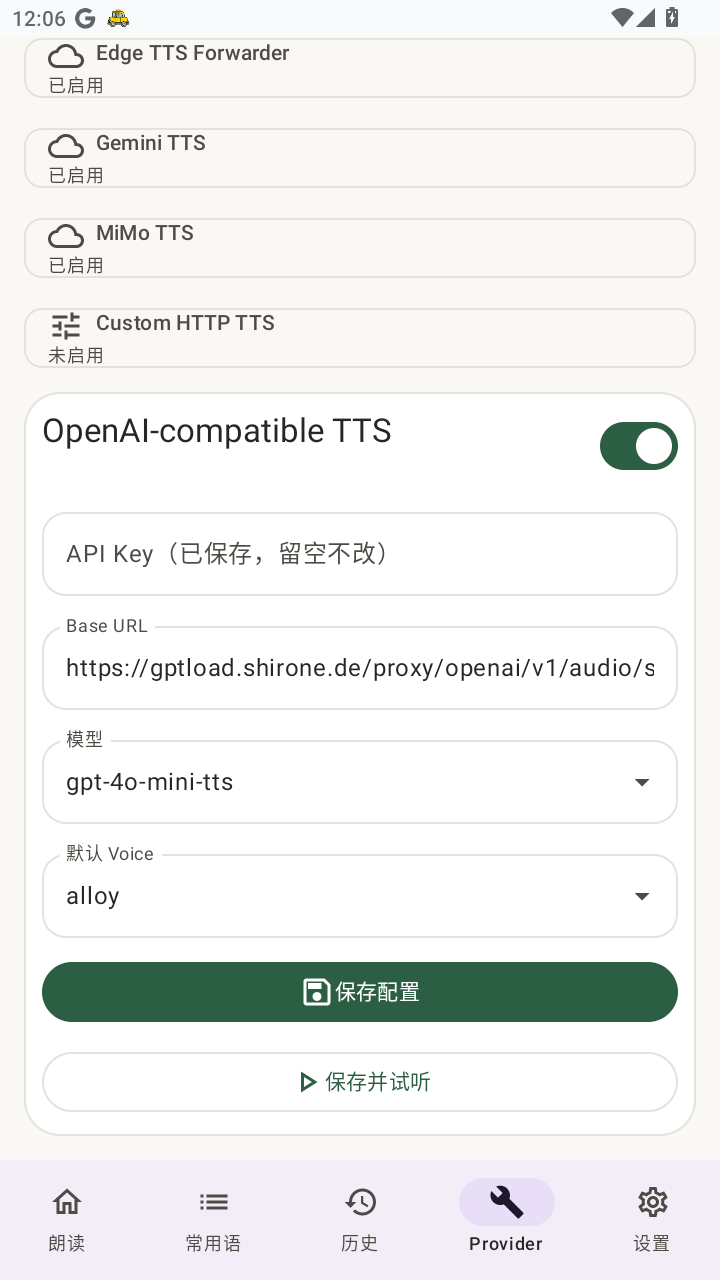
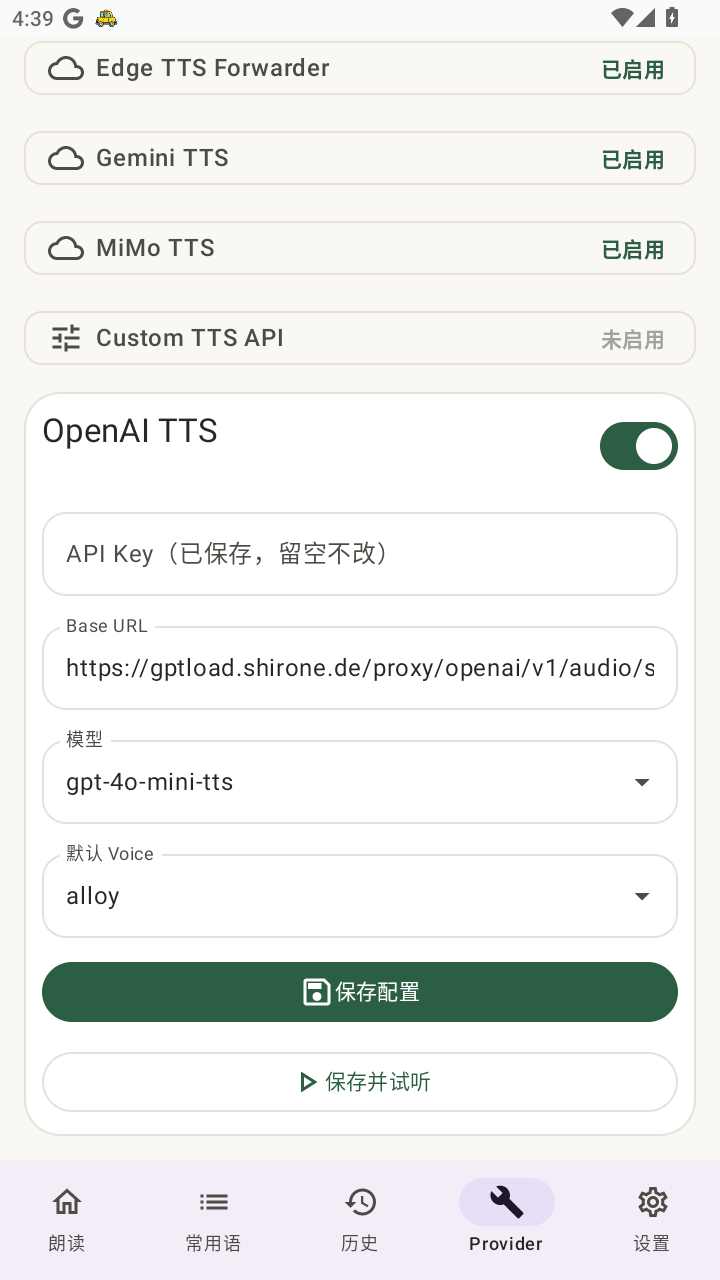
style: replace provider vertical list chips with an elegant dropdown selector

diff --git a/app/src/main/java/com/phrasevoice/ui/providers/ProviderSettingsScreen.kt b/app/src/main/java/com/phrasevoice/ui/providers/ProviderSettingsScreen.kt
@@ -106,13 +106,10 @@ fun ProviderSettingsScreen(
             )
         }
 
-        state.configs.forEach { config ->
-            ProviderSummaryCard(
-                config = config,
-                selected = config.providerId == state.selectedProviderId,
-                onClick = { onProviderSelected(config.providerId) },
-            )
-        }
+        ProviderSelectorDropdown(
+            state = state,
+            onProviderSelected = onProviderSelected,
+        )
 
         Card(
             colors = CardDefaults.cardColors(containerColor = MaterialTheme.colorScheme.surface),
@@ -475,49 +472,86 @@ private fun MimoVoiceDesignFields(
     }
 }
 
+@OptIn(ExperimentalMaterial3Api::class)
 @Composable
-private fun ProviderSummaryCard(
-    config: ProviderConfig,
-    selected: Boolean,
-    onClick: () -> Unit,
+private fun ProviderSelectorDropdown(
+    state: ProviderSettingsUiState,
+    onProviderSelected: (String) -> Unit,
 ) {
-    FilterChip(
-        selected = selected,
-        onClick = onClick,
-        label = {
-            Row(
-                modifier = Modifier.fillMaxWidth().padding(vertical = 6.dp),
-                horizontalArrangement = Arrangement.SpaceBetween,
-                verticalAlignment = Alignment.CenterVertically
-            ) {
-                Row(
-                    horizontalArrangement = Arrangement.spacedBy(8.dp),
-                    verticalAlignment = Alignment.CenterVertically
-                ) {
-                    ProviderIcon(config.providerId)
-                    Text(
-                        text = providerLabel(config.providerId),
-                        style = MaterialTheme.typography.bodyLarge.copy(fontWeight = FontWeight.Medium),
-                        maxLines = 1,
-                        overflow = TextOverflow.Ellipsis
-                    )
-                }
-                Text(
-                    text = if (config.enabled) "已启用" else "未启用",
-                    style = MaterialTheme.typography.bodyMedium.copy(
-                        fontWeight = FontWeight.Bold,
-                        color = if (config.enabled) {
-                            MaterialTheme.colorScheme.primary
-                        } else {
-                            MaterialTheme.colorScheme.onSurfaceVariant.copy(alpha = 0.5f)
+    var expanded by remember { mutableStateOf(false) }
+    val selectedConfig = state.configs.firstOrNull { it.providerId == state.selectedProviderId }
+    val selectedLabel = selectedConfig?.let { providerLabel(it.providerId) }.orEmpty()
+
+    ExposedDropdownMenuBox(
+        expanded = expanded,
+        onExpandedChange = { expanded = !expanded },
+        modifier = Modifier.fillMaxWidth()
+    ) {
+        OutlinedTextField(
+            modifier = Modifier
+                .menuAnchor()
+                .fillMaxWidth(),
+            readOnly = true,
+            value = selectedLabel,
+            onValueChange = {},
+            label = { Text("选择 Provider 声音引擎") },
+            trailingIcon = { ExposedDropdownMenuDefaults.TrailingIcon(expanded = expanded) },
+            leadingIcon = {
+                selectedConfig?.let { ProviderIcon(it.providerId) }
+            },
+            shape = RoundedCornerShape(16.dp),
+            colors = OutlinedTextFieldDefaults.colors(
+                focusedBorderColor = MaterialTheme.colorScheme.primary,
+                unfocusedBorderColor = MaterialTheme.colorScheme.outline,
+                focusedContainerColor = MaterialTheme.colorScheme.surface,
+                unfocusedContainerColor = MaterialTheme.colorScheme.surface,
+            )
+        )
+        ExposedDropdownMenu(
+            expanded = expanded,
+            onDismissRequest = { expanded = false },
+            modifier = Modifier.fillMaxWidth()
+        ) {
+            state.configs.forEach { config ->
+                DropdownMenuItem(
+                    text = {
+                        Row(
+                            modifier = Modifier.fillMaxWidth(),
+                            horizontalArrangement = Arrangement.SpaceBetween,
+                            verticalAlignment = Alignment.CenterVertically
+                        ) {
+                            Row(
+                                horizontalArrangement = Arrangement.spacedBy(8.dp),
+                                verticalAlignment = Alignment.CenterVertically
+                            ) {
+                                ProviderIcon(config.providerId)
+                                Text(
+                                    text = providerLabel(config.providerId),
+                                    style = MaterialTheme.typography.bodyLarge.copy(fontWeight = FontWeight.Medium),
+                                )
+                            }
+                            Text(
+                                text = if (config.enabled) "已启用" else "未启用",
+                                style = MaterialTheme.typography.bodyMedium.copy(
+                                    fontWeight = FontWeight.Bold,
+                                    color = if (config.enabled) {
+                                        MaterialTheme.colorScheme.primary
+                                    } else {
+                                        MaterialTheme.colorScheme.onSurfaceVariant.copy(alpha = 0.5f)
+                                    }
+                                ),
+                                modifier = Modifier.padding(end = 4.dp)
+                            )
                         }
-                    ),
-                    modifier = Modifier.padding(end = 4.dp)
+                    },
+                    onClick = {
+                        expanded = false
+                        onProviderSelected(config.providerId)
+                    },
                 )
             }
-        },
-        modifier = Modifier.fillMaxWidth(),
-    )
+        }
+    }
 }
 
 @Composable
